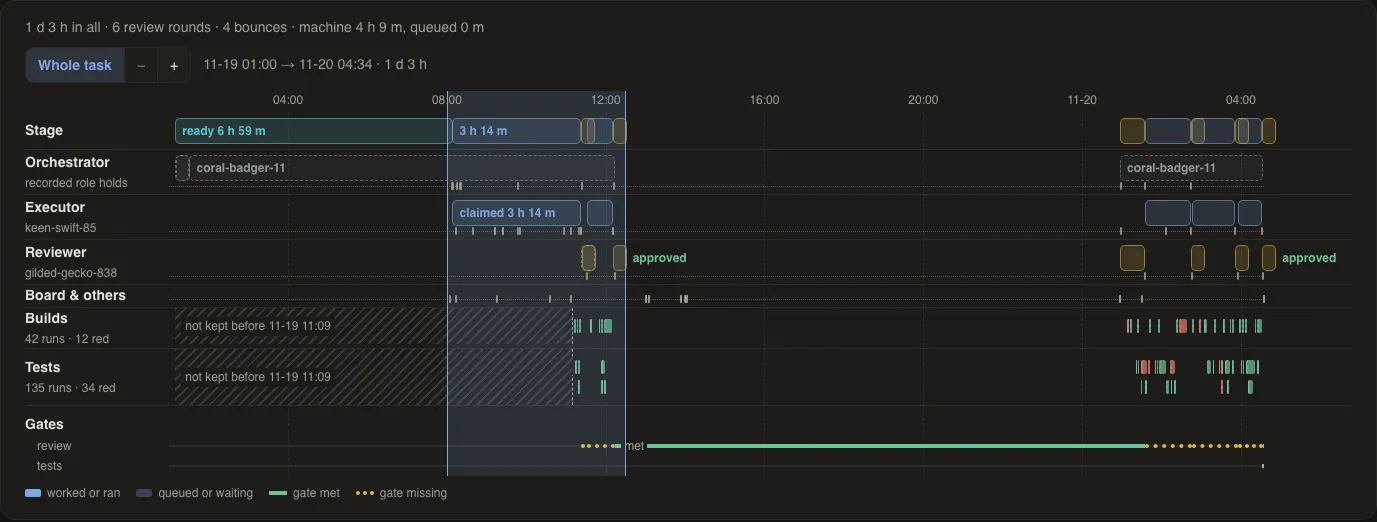
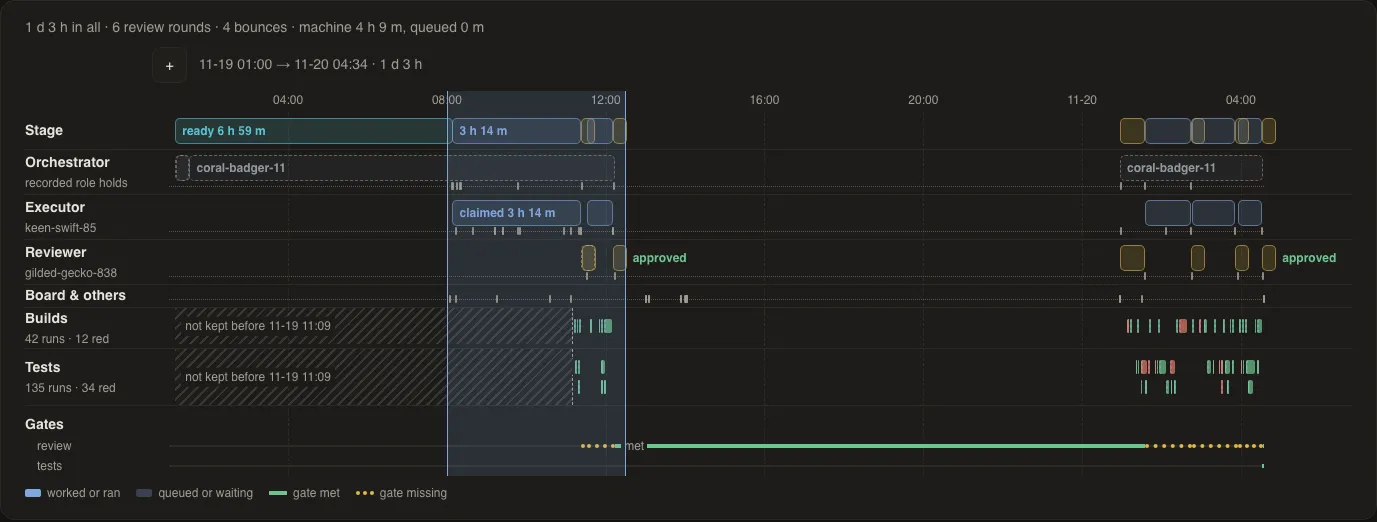
A zoom button that cannot act is not drawn; a press let go off the lanes ends
Review of app/timeline-zoom:
- A mouse press released outside the lanes before it dragged stayed held, and drew a band with
  no button down when the pointer came back. A move with the left button up now ends the press,
  and a new press clears any band. Unit and browser cases.
- RULES code/pages-explain-nothing, as the owner ruled: Whole task, − and + are drawn only where
  they can act, each keeping its place so nothing on the line moves under the pointer. The card
  timeline-zoom-limits and its pictures go; the drag band's pictures show the new line.
- A view begun mid-minute on a step's boundary marks from the next step (a tick test).

Changed region(s): [[0.1561, 0.092, 0.3123, 0.1533], [0.0, 0.092, 0.0937, 0.1839]]

diff --git a/apps/symphony-web/src/timeline.test.tsx b/apps/symphony-web/src/timeline.test.tsx
@@ -1055,8 +1055,10 @@ describe("the timeline zoomed", () => {
 
   it("opens on the whole task: a toolbar line above the lanes, and no overview", () => {
     const drawn = draw(pictures(), { view: null });
+    // Whole task and − cannot act there: not drawn, their places kept, + alone where it is when
+    // zoomed.
     expect(drawn).toContain(
-      '<div class="tl-zoom"><span class="tl-zoom-group" role="group" aria-label="Zoom"><button class="dx-button" data-style="outline" data-size="sm" type="button" aria-pressed="true" disabled="">Whole task</button><button class="dx-button" data-style="outline" data-size="sm" type="button" aria-label="Zoom out" title="Zoom out" disabled="">−</button><button class="dx-button" data-style="outline" data-size="sm" type="button" aria-label="Zoom in" title="Zoom in">+</button></span><span class="tl-range" aria-live="polite">11-11 09:00 → 11-11 15:20 · 6 h 20 m</span></div>',
+      '<div class="tl-zoom"><span class="tl-zoom-group" role="group" aria-label="Zoom"><button class="dx-button tl-idle" data-style="outline" data-size="sm" type="button" disabled="">Whole task</button><button class="dx-button tl-idle" data-style="outline" data-size="sm" type="button" aria-label="Zoom out" title="Zoom out" disabled="">−</button><button class="dx-button" data-style="outline" data-size="sm" type="button" aria-label="Zoom in" title="Zoom in">+</button></span><span class="tl-range" aria-live="polite">11-11 09:00 → 11-11 15:20 · 6 h 20 m</span></div>',
     );
     expect(drawn).toContain(
       '<div class="tl-lanes tl-zoomable" id="tl-lanes" role="group" aria-label="Lanes">',
@@ -1077,8 +1079,9 @@ describe("the timeline zoomed", () => {
     expect(drawn).toContain(
       '<span class="tl-range" aria-live="polite">11-11 12:00 → 11-11 13:00 · 1 h of 6 h 20 m</span>',
     );
-    expect(drawn).toContain('aria-pressed="false">Whole task</button>');
+    expect(drawn).toContain('type="button">Whole task</button>');
     expect(drawn).not.toContain("disabled");
+    expect(drawn).not.toContain("tl-idle");
     expect(drawn).toContain('<div class="tl-overview">');
     expect(drawn).toContain(
       'class="tl-ov-window" role="scrollbar" tabindex="0" aria-label="Hours shown" aria-controls="tl-lanes" aria-orientation="horizontal" aria-valuemin="0" aria-valuemax="100" aria-valuenow="47" aria-valuetext="11-11 12:00 → 11-11 13:00 · 1 h of 6 h 20 m" style="left:47.37%;width:15.79%"',
@@ -1099,9 +1102,12 @@ describe("the timeline zoomed", () => {
     expect(drawn).not.toContain("tl-now");
   });
 
-  it("at a zoom's least, + cannot zoom further", () => {
+  it("at a zoom's least, + cannot zoom further and is not drawn, its place kept", () => {
     const least = draw(pictures(), { view: { from: nine(180), to: nine(180) + LEAST_SHOWN } });
-    expect(least).toContain('aria-label="Zoom in" title="Zoom in" disabled="">+</button>');
+    expect(least).toContain(
+      '<button class="dx-button tl-idle" data-style="outline" data-size="sm" type="button" aria-label="Zoom in" title="Zoom in" disabled="">+</button>',
+    );
+    expect(count(least, "tl-idle")).toBe(1);
     expect(least).toContain("· 5 m of 6 h 20 m");
     expect([leastShown(null), leastShown(NOON), leastShown({ from: 0, to: LEAST_SHOWN })]).toEqual([
       false,

diff --git a/apps/symphony-web/src/timeline-navigate.tsx b/apps/symphony-web/src/timeline-navigate.tsx
@@ -114,21 +114,20 @@ function zoomKey(event: KeyboardEvent<HTMLElement>, nav: Navigation): boolean {
   return taken(event, keyView(event.key, modified, nav.view, nav.whole), nav.set);
 }
 
-/** The toolbar line: Whole task (pressed while it is shown), − and +, each disabled where it
- * cannot act, as the message list's Previous and Next are at their ends, and the range shown. */
+/** A button of the toolbar's that cannot act: not drawn, its place kept (`.tl-idle`), and
+ * disabled, so no key or press reaches it. */
+const idle = (cannot: boolean) => ({ disabled: cannot, className: cannot ? "tl-idle" : undefined });
+
+/** The toolbar line: Whole task, − and +, each drawn only where it can act, its place kept so that
+ * nothing on the line moves under the pointer (on the whole task + alone, which the readout says
+ * is the whole), and the range shown. */
 export function ZoomBar({ timeline, nav }: { timeline: TaskTimeline; nav: Navigation }) {
   const { view, whole, set } = nav;
   return (
     <div className="tl-zoom">
       {/* biome-ignore lint/a11y/useSemanticElements: a group of the view's buttons, no form's fieldset */}
       <span className="tl-zoom-group" role="group" aria-label="Zoom">
-        <Button
-          type="button"
-          size="sm"
-          aria-pressed={view === null}
-          disabled={view === null}
-          onClick={() => set(null)}
-        >
+        <Button type="button" size="sm" {...idle(view === null)} onClick={() => set(null)}>
           Whole task
         </Button>
         <Button
@@ -136,7 +135,7 @@ export function ZoomBar({ timeline, nav }: { timeline: TaskTimeline; nav: Naviga
           size="sm"
           aria-label="Zoom out"
           title="Zoom out"
-          disabled={view === null}
+          {...idle(view === null)}
           onClick={() => set(zoomed(view, whole, false))}
         >
           −
@@ -146,7 +145,7 @@ export function ZoomBar({ timeline, nav }: { timeline: TaskTimeline; nav: Naviga
           size="sm"
           aria-label="Zoom in"
           title="Zoom in"
-          disabled={leastShown(view)}
+          {...idle(leastShown(view))}
           onClick={() => set(zoomed(view, whole, true))}
         >
           +
@@ -399,6 +398,8 @@ export function useNavigation(
         return;
       }
       swallow.current = false;
+      press.current = null;
+      setBand(null);
       if (event.button !== 0) return;
       const from = fractionAt(lanes.current, event.clientX);
       if (from === null || from < 0 || from > 1) return;
@@ -411,6 +412,13 @@ export function useNavigation(
       }
       const held = press.current;
       if (held === null || held.id !== event.pointerId) return;
+      // A press let go outside the lanes before it dragged (the pointer is captured only once it
+      // drags) ends with the button found up.
+      if ((event.buttons & 1) === 0) {
+        press.current = null;
+        setBand(null);
+        return;
+      }
       if (!held.dragging) {
         if (Math.abs(event.clientX - held.x) < DRAG_PX) return;
         held.dragging = true;

diff --git a/apps/symphony-web/src/timeline-navigate.test.tsx b/apps/symphony-web/src/timeline-navigate.test.tsx
@@ -77,11 +77,13 @@ function navigated(nav: Navigation, width = 1000) {
 
 type Pointer = Parameters<LanesHandlers["onPointerDown"]>[0];
 
-/** A pointer's event at `x` (`y`), the left button's, a mouse's unless `kind` says otherwise. */
+/** A pointer's event at `x`, the left button's and with it held, a mouse's unless `more` says
+ * otherwise. */
 const pointer = (x: number, more: Record<string, unknown> = {}) =>
   ({
     pointerType: "mouse",
     button: 0,
+    buttons: 1,
     pointerId: 1,
     clientX: x,
     clientY: 100,
@@ -215,6 +217,34 @@ describe("a mouse on the lanes", () => {
     at.handlers.onPointerCancel(pointer(700));
     at.handlers.onPointerUp(pointer(700));
     expect([at.band(), nav.given]).toEqual([null, []]);
+  });
+
+  it("let go outside the lanes before it dragged, draws no band when it comes back", () => {
+    const nav = navigation(null);
+    const at = navigated(nav);
+    // Pressed, moved straight down off the lanes and let go there: the lanes saw no release.
+    at.handlers.onPointerDown(pointer(450));
+    at.handlers.onPointerMove(pointer(451, { clientY: 400 }));
+    // Back over the lanes with no button held, further across than a drag needs.
+    at.handlers.onPointerMove(pointer(700, { buttons: 0 }));
+    at.handlers.onPointerMove(pointer(800, { buttons: 0 }));
+    expect([at.band(), at.captured, nav.given]).toEqual([null, [], []]);
+    // The next press, a click, is a click.
+    at.handlers.onPointerDown(pointer(800));
+    at.handlers.onPointerUp(pointer(800, { buttons: 0 }));
+    const click = kept({});
+    at.handlers.onClickCapture(click.event);
+    expect([at.band(), nav.given, click.said.prevented]).toEqual([null, [], false]);
+  });
+
+  it("let go outside the lanes mid-drag, its band goes at the next press", () => {
+    const nav = navigation(null);
+    const at = navigated(nav);
+    at.handlers.onPointerDown(pointer(450));
+    at.handlers.onPointerMove(pointer(700));
+    expect(at.band()).toEqual([0.25, 0.5]);
+    at.handlers.onPointerDown(pointer(900));
+    expect(at.band()).toBeNull();
   });
 
   it("double clicked on a stage zooms to it, and elsewhere does nothing", () => {

diff --git a/apps/symphony-web/src/timeline.css b/apps/symphony-web/src/timeline.css
@@ -303,19 +303,18 @@
 .tl-zoom-group .dx-button + .dx-button {
   margin-left: -1px;
 }
-.tl-zoom-group .dx-button:not(:last-child) {
+/* A button that cannot act is not drawn, and keeps its place; the buttons drawn round their own
+   ends: + alone on the whole task, − the last at the least. */
+.tl-zoom-group .dx-button.tl-idle {
+  visibility: hidden;
+}
+.tl-zoom-group .dx-button:not(:last-child, :has(+ .tl-idle)) {
   border-top-right-radius: 0;
   border-bottom-right-radius: 0;
 }
-.tl-zoom-group .dx-button:not(:first-child) {
+.tl-zoom-group .dx-button:not(:first-child, .tl-idle + *) {
   border-top-left-radius: 0;
   border-bottom-left-radius: 0;
-}
-.tl-zoom-group .dx-button[aria-pressed="true"] {
-  background: color-mix(in srgb, var(--primary) 18%, transparent);
-  color: var(--primary);
-  font-weight: 600;
-  opacity: 1;
 }
 .tl-range {
   color: var(--muted-foreground);

diff --git a/apps/symphony-web/src/timeline-layout.test.ts b/apps/symphony-web/src/timeline-layout.test.ts
@@ -2196,6 +2196,16 @@ describe("a part of the hours shown", () => {
     expect(labels(hour)).toEqual(["11:10", "11:20", "11:30", "11:40", "11:50", "12:00", "12:10"]);
     const first = new Scale(pictures(), hour).ticks(false)[0];
     expect(first?.left).toBeCloseTo(((nine(130) - hour.from) / (hour.to - hour.from)) * 100, 10);
+    // 11:10:30 to 12:10:30, begun half a minute past a whole ten: from the next whole ten, 11:10
+    // being before the hours shown.
+    expect(labels({ from: nine(130) + 30, to: nine(190) + 30 })).toEqual([
+      "11:20",
+      "11:30",
+      "11:40",
+      "11:50",
+      "12:00",
+      "12:10",
+    ]);
     // Five minutes: every minute; three hours: every half hour; a day's hours: by the hour up.
     expect(labels({ from: nine(60), to: nine(65) })).toEqual([
       "10:00",

diff --git a/apps/symphony-web-tests/tests/browser/timeline/zoom.rs b/apps/symphony-web-tests/tests/browser/timeline/zoom.rs
@@ -127,14 +127,25 @@ fn the_toolbar_zooms_in_and_out_and_whole_task_returns_with_a_true_readout() {
     let Some(mut chrome) = chrome() else { return };
     opened(&mut chrome, &site);
     readout(&mut chrome, "opened", &format!("said === {}", json!(WHOLE)));
-    let buttons = "[...document.querySelectorAll('.tl-zoom-group button')].map(b => [b.textContent, b.getAttribute('aria-label'), b.disabled, b.getAttribute('aria-pressed')])";
+    // Each button, whether it is drawn and takes the focus, and where it is: on the whole task
+    // Whole task and − cannot act, so are not drawn, their places kept.
+    let buttons = "[...document.querySelectorAll('.tl-zoom-group button')].map(b => { b.focus(); return [b.textContent, b.getAttribute('aria-label'), getComputedStyle(b).visibility === 'visible', document.activeElement === b, Math.round(b.getBoundingClientRect().left)]; })";
+    let whole = chrome.eval(buttons);
+    let shown = |buttons: &Value| -> Vec<Value> {
+        buttons
+            .as_array()
+            .unwrap()
+            .iter()
+            .map(|b| json!([b[0], b[1], b[2], b[3]]))
+            .collect()
+    };
     assert_eq!(
-        chrome.eval(buttons),
-        json!([
-            ["Whole task", null, true, "true"],
-            ["−", "Zoom out", true, null],
-            ["+", "Zoom in", false, null]
-        ])
+        shown(&whole),
+        [
+            json!(["Whole task", null, false, false]),
+            json!(["−", "Zoom out", false, false]),
+            json!(["+", "Zoom in", true, true])
+        ]
     );
     assert!(!drawn(&mut chrome, ".tl-overview"));
     // The toolbar line sits above the lanes, inside the box.
@@ -143,6 +154,24 @@ fn the_toolbar_zooms_in_and_out_and_whole_task_returns_with_a_true_readout() {
     tap(&mut chrome, ".tl-zoom button[aria-label='Zoom in']");
     let half = readout(&mut chrome, "zoomed in", "said.includes(' of 1 d 3 h')");
     assert_eq!(minutes(&half), 827, "{half}");
+    // Zoomed, all three are drawn, and none moved: + is where it was pressed.
+    let zoomed = chrome.eval(buttons);
+    assert_eq!(
+        shown(&zoomed),
+        [
+            json!(["Whole task", null, true, true]),
+            json!(["−", "Zoom out", true, true]),
+            json!(["+", "Zoom in", true, true])
+        ]
+    );
+    for (now, then) in zoomed
+        .as_array()
+        .unwrap()
+        .iter()
+        .zip(whole.as_array().unwrap())
+    {
+        assert_eq!(now[4], then[4], "{now} moved");
+    }
     assert_eq!(
         chrome.eval("document.getElementById('quick-open').getAttribute('aria-expanded')"),
         json!("false"),
@@ -170,10 +199,7 @@ fn the_toolbar_zooms_in_and_out_and_whole_task_returns_with_a_true_readout() {
         &format!("said === {}", json!(WHOLE)),
     );
     assert!(!drawn(&mut chrome, ".tl-overview"));
-    assert_eq!(
-        chrome.eval(buttons)[0],
-        json!(["Whole task", null, true, "true"])
-    );
+    assert_eq!(chrome.eval(buttons), whole);
 }
 
 /// ⌘/Ctrl + wheel zooms about the pointer, the instant under it staying there; Shift + wheel and
@@ -286,6 +312,27 @@ fn a_drag_across_the_hours_zooms_to_them_and_its_release_picks_nothing() {
     assert_eq!(
         chrome.eval("document.querySelectorAll('.tl-message-mark[aria-pressed=true]').length"),
         json!(1)
+    );
+    assert_eq!(chrome.eval(RANGE), json!(dragged));
+    // A press let go below the lanes before it dragged leaves nothing held: back over the lanes
+    // with no button down, further across than a drag needs, the pointer draws no band. The
+    // lanes' places again, the overview now above them.
+    let places = chrome.eval(PLACES);
+    let x = places["left"].as_f64().unwrap() + places["width"].as_f64().unwrap() / 2.0;
+    let y = places["y"].as_f64().unwrap();
+    mouse(&mut chrome, "mousePressed", x, y, 1);
+    mouse(&mut chrome, "mouseMoved", x + 1.0, y + 500.0, 0);
+    mouse(&mut chrome, "mouseReleased", x + 1.0, y + 500.0, 1);
+    for dx in [50.0, 150.0] {
+        chrome.call(
+            "Input.dispatchMouseEvent",
+            json!({"type": "mouseMoved", "x": x + dx, "y": y, "buttons": 0}),
+        );
+    }
+    chrome.frames();
+    assert_eq!(
+        chrome.eval("document.querySelector('.tl-band') === null"),
+        json!(true)
     );
     assert_eq!(chrome.eval(RANGE), json!(dragged));
 }

diff --git a/docs/workflow/TASKS.md b/docs/workflow/TASKS.md
@@ -3793,10 +3793,10 @@ The lanes zoom into a part of the hours and move along them (`timeline-zoom.ts`,
 arithmetic, and `timeline-navigate.tsx`, in the timeline's chunk), as
 [the timeline's analysis](../design/analysis/timeline-navigation.md) draws it. Each visit
 opens on the whole task, and a task no longer than five minutes, the least a zoom shows, draws
-as before, with nothing to zoom. A line above the lanes holds **Whole task**, pressed while the
-whole task is shown, **−** and **+**, each disabled where it cannot act (− on the whole task, +
-at five minutes), and the hours shown with their length, "11-19 10:53 → 11-19 12:01 · 1 h 8 m of
-1 d 3 h" zoomed. Zoomed, every lane is drawn over the hours shown, its words fitted to them and
+as before, with nothing to zoom. A line above the lanes holds **Whole task**, **−** and **+**,
+each drawn only where it can act, its place kept so that nothing on the line moves (on the whole
+task + alone, at five minutes no +), and the hours shown with their length, "11-19 10:53 →
+11-19 12:01 · 1 h 8 m of 1 d 3 h" zoomed. Zoomed, every lane is drawn over the hours shown, its words fitted to them and
 its hours marked down to the minute; a part outside them is not drawn but keeps its place among
 the arrow keys' stops, and one the keys step to, or a message chosen in the message list, comes
 into view at the same zoom. ⌘ or Ctrl with a wheel, as a trackpad's pinch sends it, zooms about
@@ -3809,10 +3809,6 @@ moves while zoomed, the page still scrolling up and down under it. With the focu
 task's stages and runs with the window shown, which a drag moves, a drag of its edge resizes,
 and its arrow keys, Page Up, Page Down, Home and End move. The height the box keeps for the next
 visit is the whole task's. A phone's list is not zoomed.
-
-- [ ] **timeline-zoom-limits** — The zoom line above a task's wide timeline always draws Whole task, − and +, as the mockup does, and the mockup leaves open how a button looks where it cannot act. As built, each such button is greyed out and takes no press: − and Whole task on the whole task (Whole task is also shown pressed then), and + once five minutes are shown, the least a zoom shows. That is how Previous message and Next message look at their ends. A: greyed out where they cannot act, as built; the buttons never move. B: − and + left out where they cannot act, so the line's buttons move up when one goes, and a second press where + was can land on −. Recommended: A. Approve and say A or B in the note, or comment.
-  [2026-11-26 16:18] agent — Posted for the board task `app/timeline-zoom`, at 1440 wide, the whole task: A as built, − and Whole task greyed out; B drawn on that page by hand, not built, − left out. ![The zoom line on the whole task, option A](../design/analysis/timeline-navigation/zoom-limits-whole.webp) ![The zoom line on the whole task, option B](../design/analysis/timeline-navigation/zoom-limits-hidden.webp)
-  [2026-11-26 16:18] agent — Under A, zoomed to five minutes, + greyed out: ![The zoom line at five minutes, as built](../design/analysis/timeline-navigation/zoom-limits-least.webp)
 
 - [ ] **timeline-drag-band** — A mouse dragged across the hours of a task's wide timeline zooms to the hours dragged, and the mockup leaves open what the drag shows while the button is held. As built, a band in the accent colour, faint with a solid edge at each end, covers the hours dragged across every lane, the bars showing through it, and goes when the button is let go. Approve, or comment.
   [2026-11-26 16:18] agent — Posted for the board task `app/timeline-zoom`, at 1440 wide, a drag held from 08:00 to 12:30. ![A drag held across the hours, light](../design/analysis/timeline-navigation/drag-band.webp) ![A drag held across the hours, dark](../design/analysis/timeline-navigation/drag-band-dark.webp)

diff --git a/docs/product/TASK.md b/docs/product/TASK.md
@@ -120,8 +120,9 @@ was, says all of it: for a
 build or test its command, how long it waited and ran, how it ended, its commit, who ran it and
 where. A bar says when an agent held a role, not that it worked the whole time.
 
-A line above the lanes zooms into part of the hours: **Whole task**, **−** and **+**, and the
-hours shown with their length (*11-19 10:53 → 11-19 12:01 · 1 h 8 m of 1 d 3 h*). ⌘ or Ctrl
+A line above the lanes zooms into part of the hours: **Whole task**, **−** and **+**, each shown
+only where it can act, and the hours shown with their length (*11-19 10:53 → 11-19 12:01 · 1 h
+8 m of 1 d 3 h*). ⌘ or Ctrl
 with the wheel, or a trackpad's pinch, zooms about the pointer, and Shift with the wheel or a
 sideways swipe moves along the hours; a drag across the hours zooms to them, a double click on a
 stage zooms to the stage, and with the lanes focused + − and 0 zoom in, out and back to the whole
